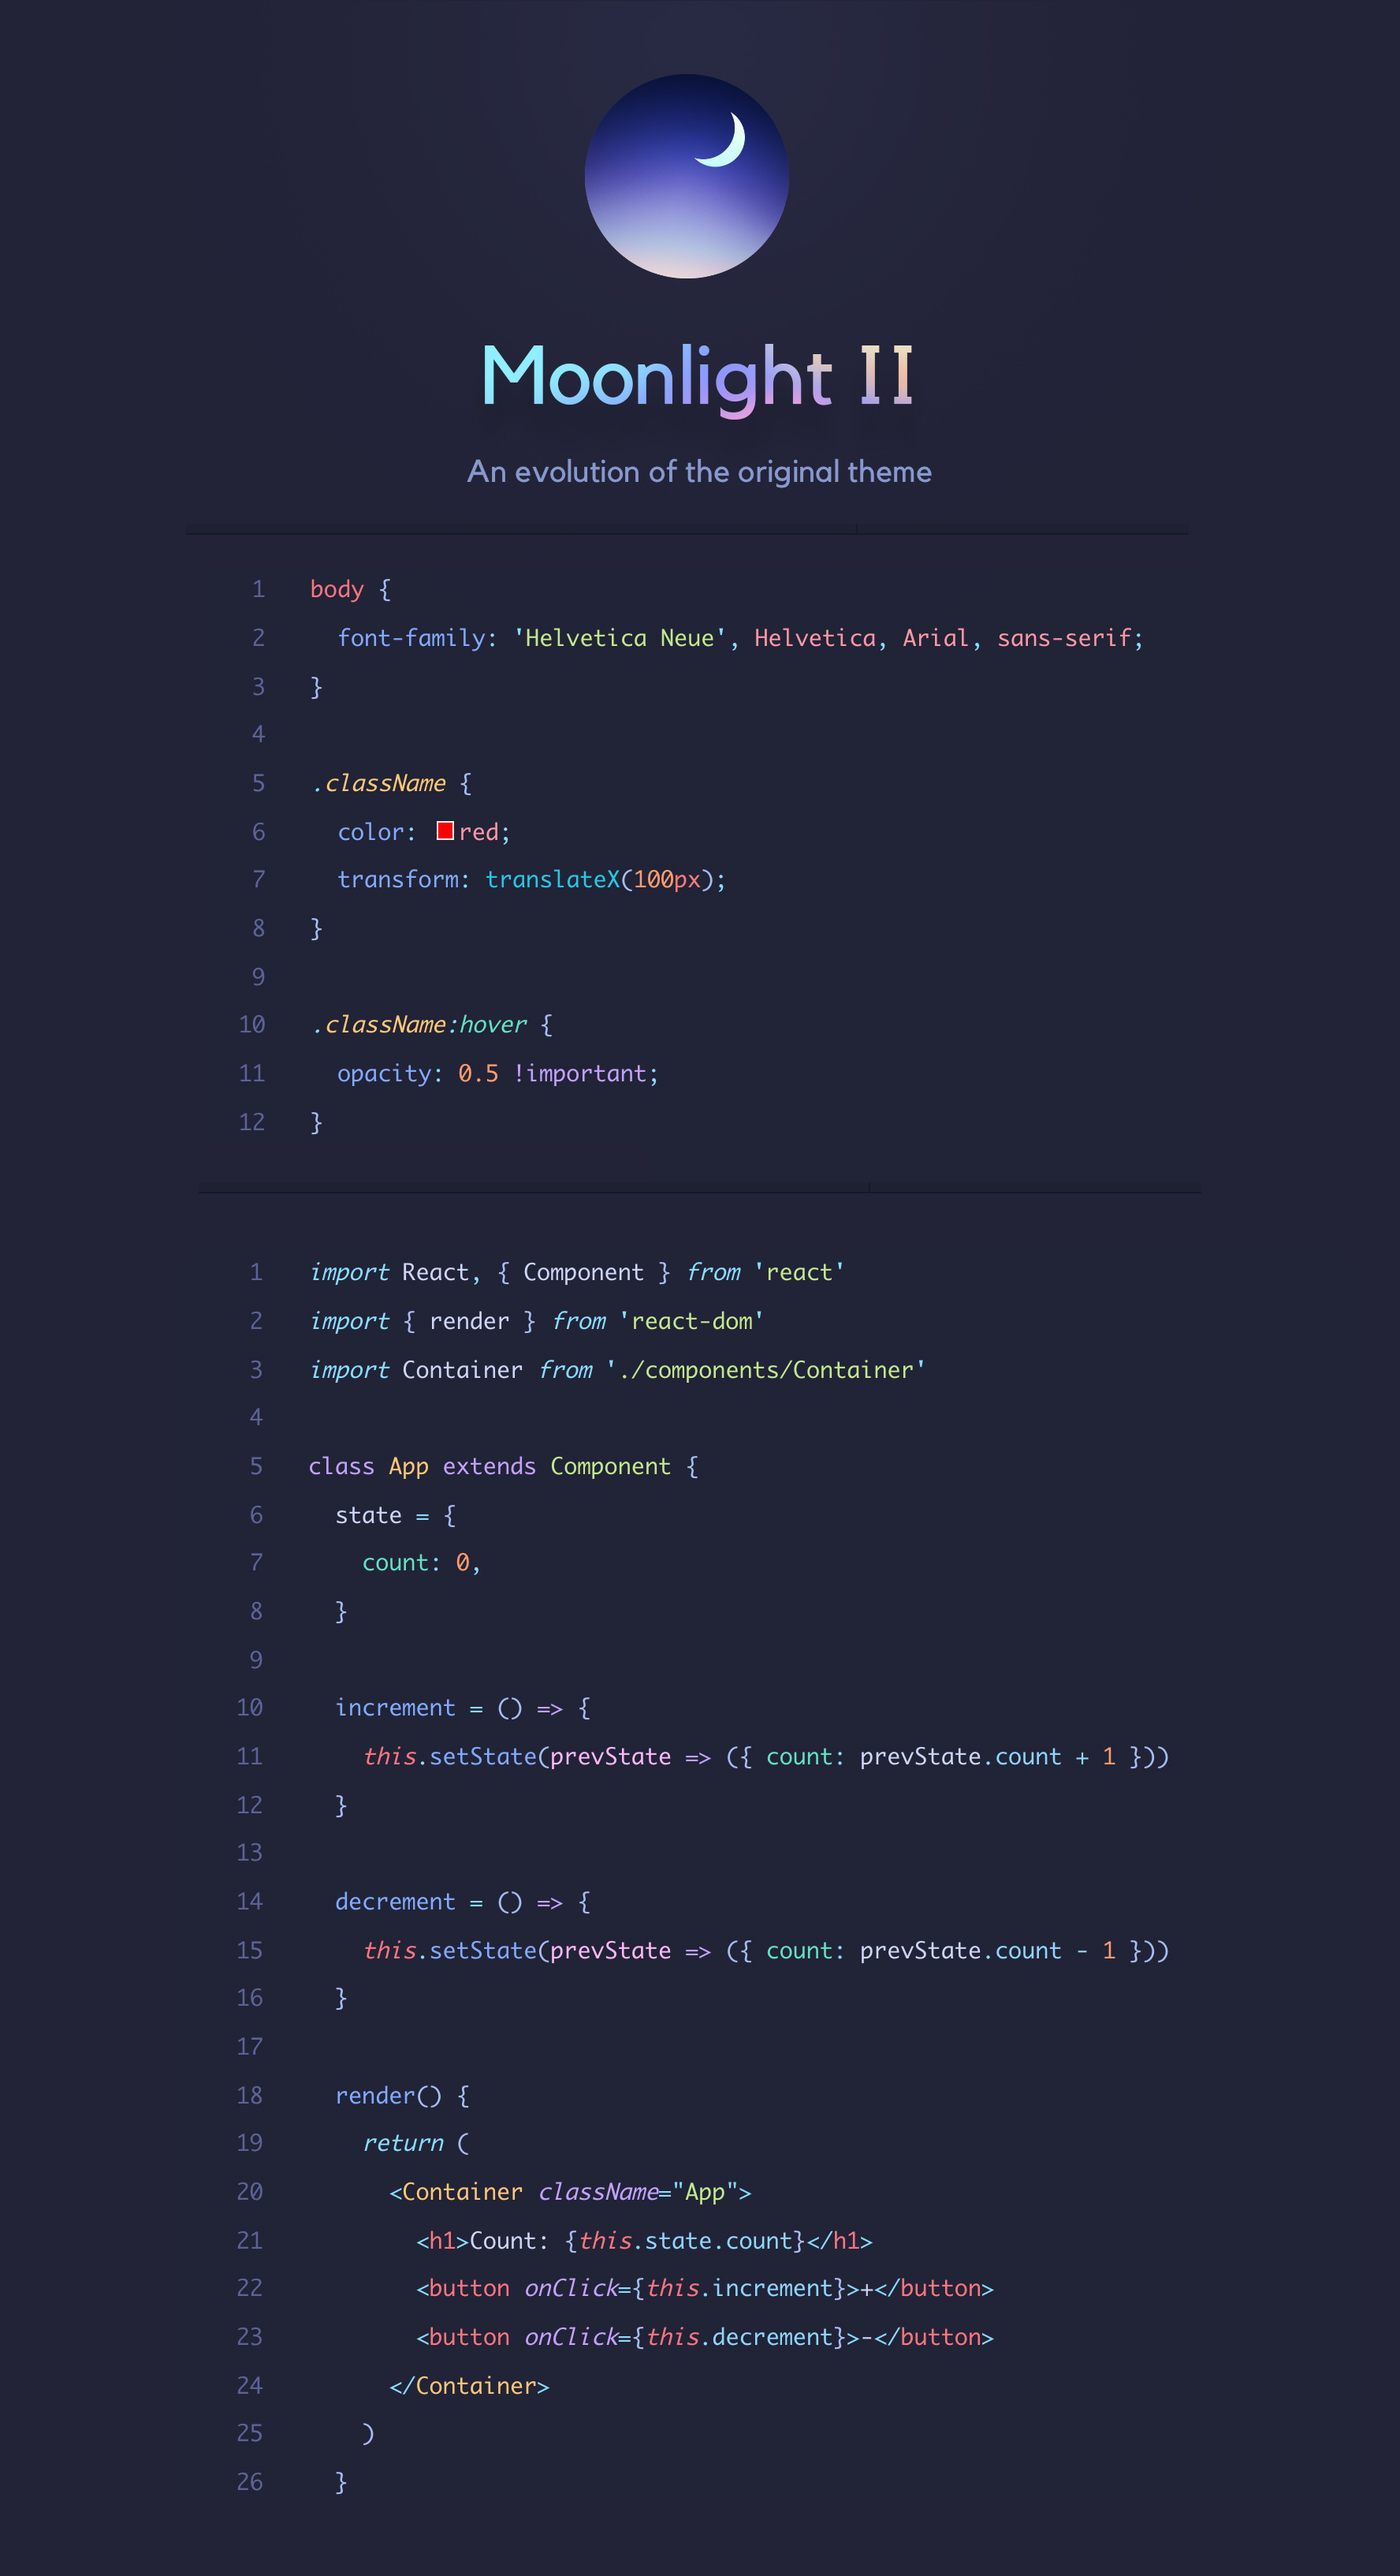
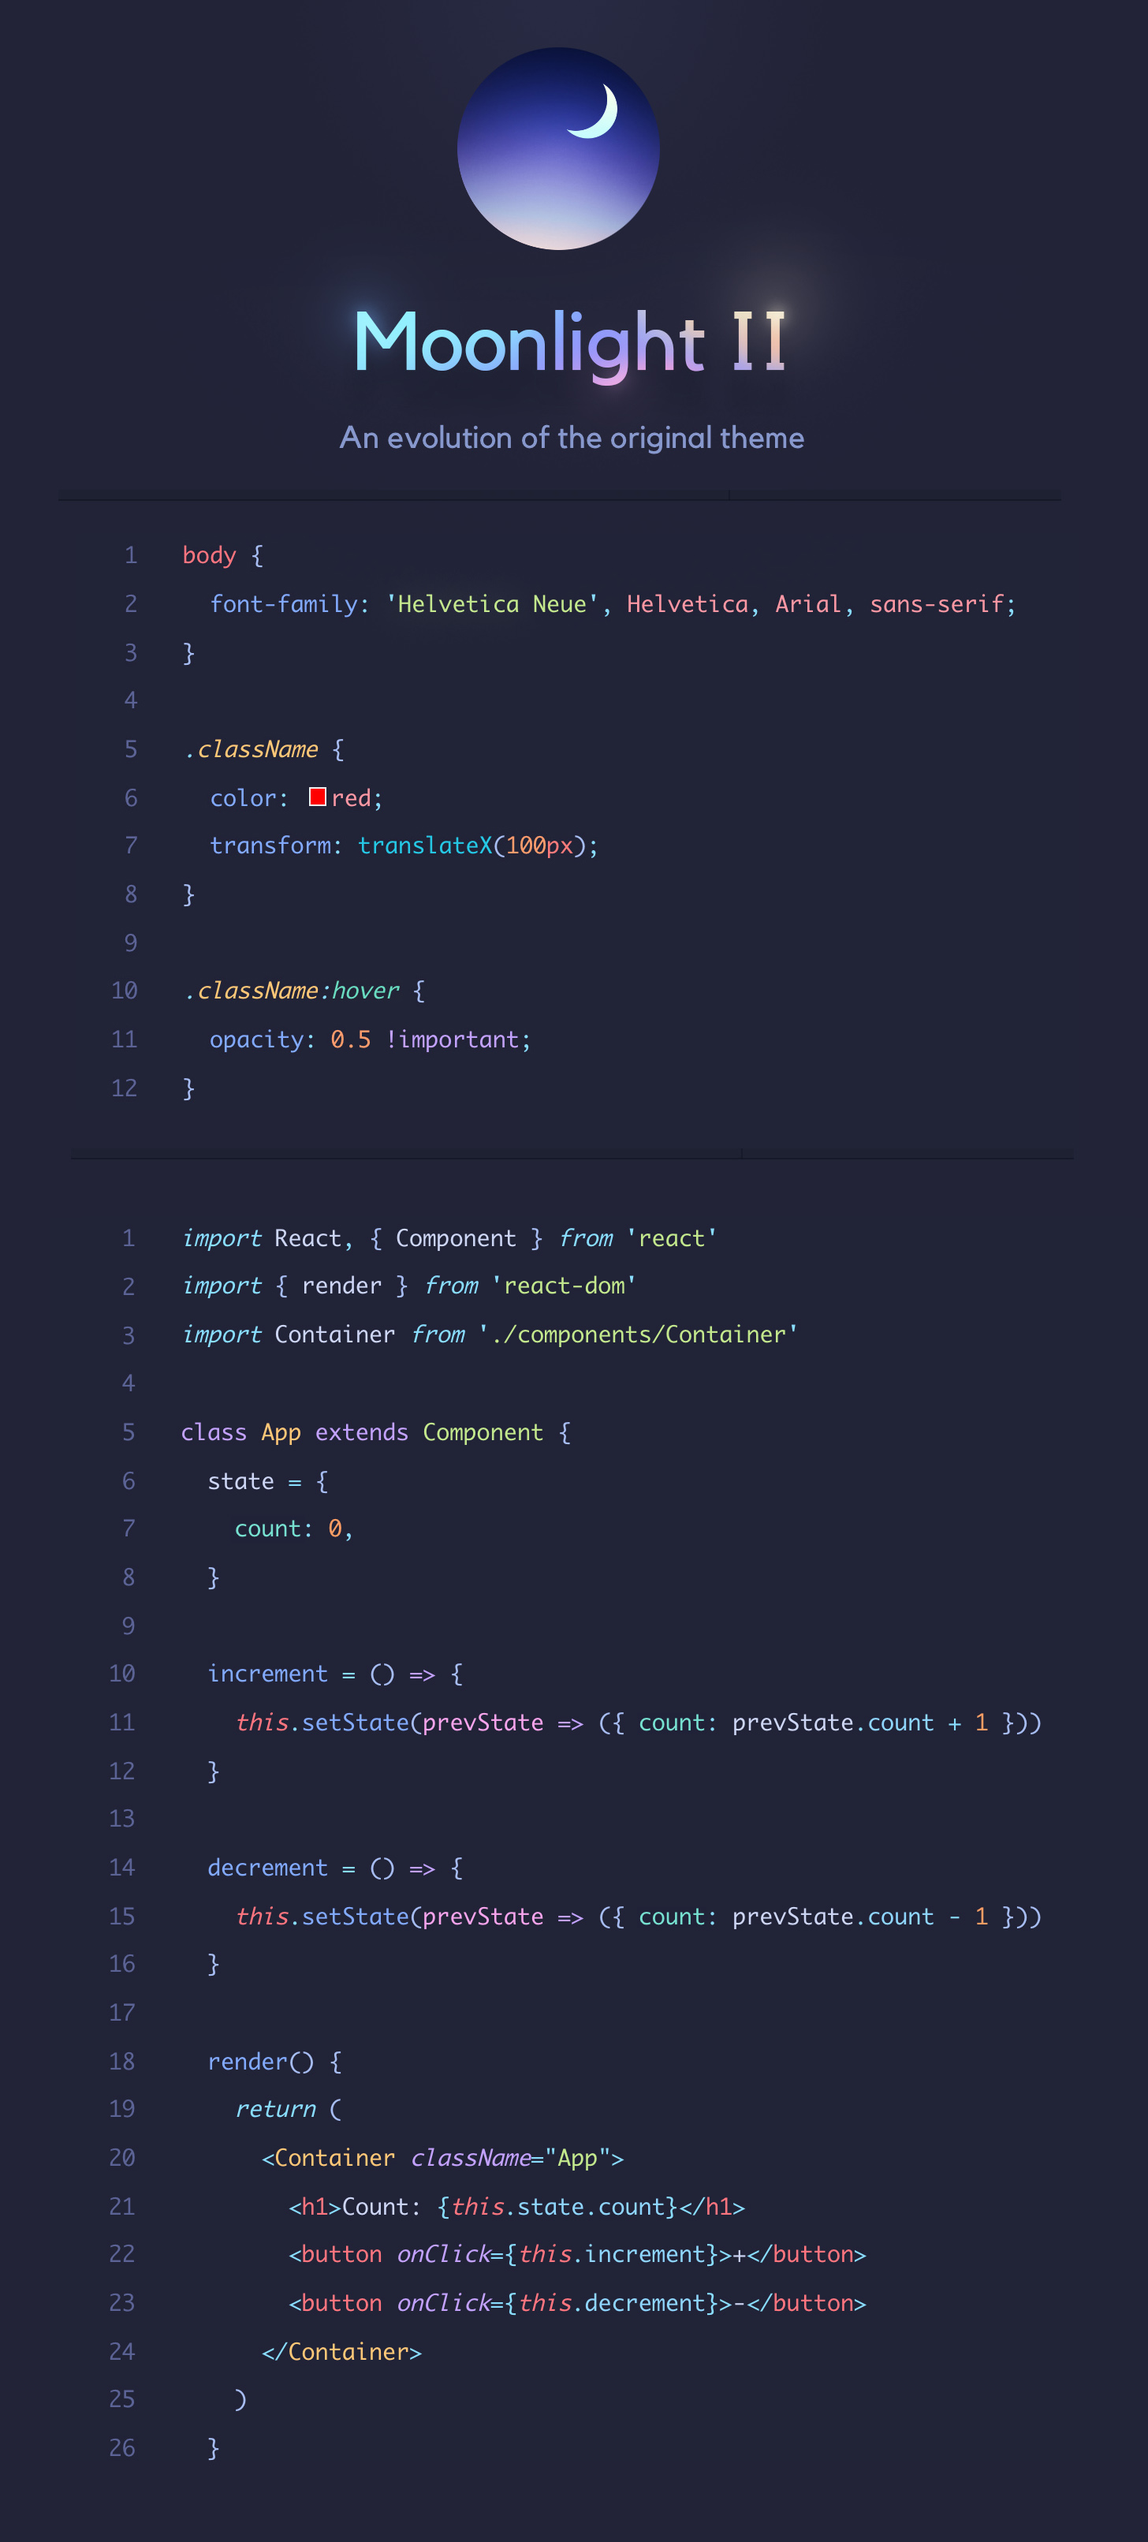
0.8.1

diff --git a/CHANGELOG.md b/CHANGELOG.md
@@ -1,3 +1,7 @@
+### 0.8.1
+
+- Minor fixes to Moonlight II for certain scopes
+
 ### 0.8.0
 
 - Introduce a new theme - Moonlight II
